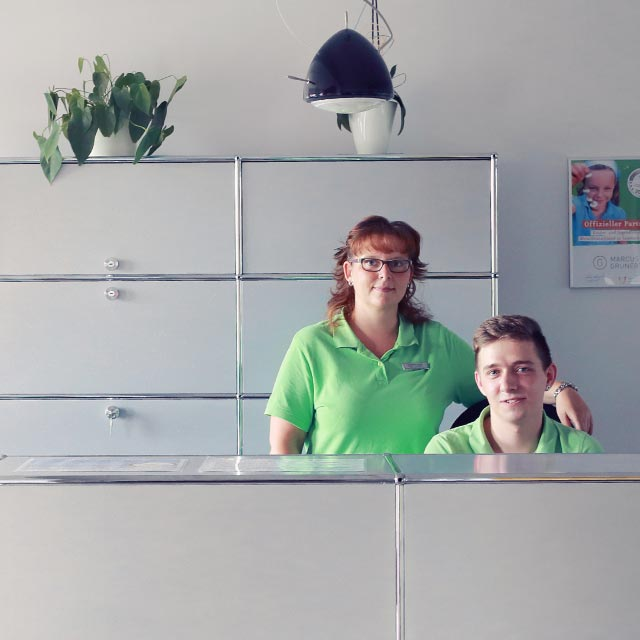
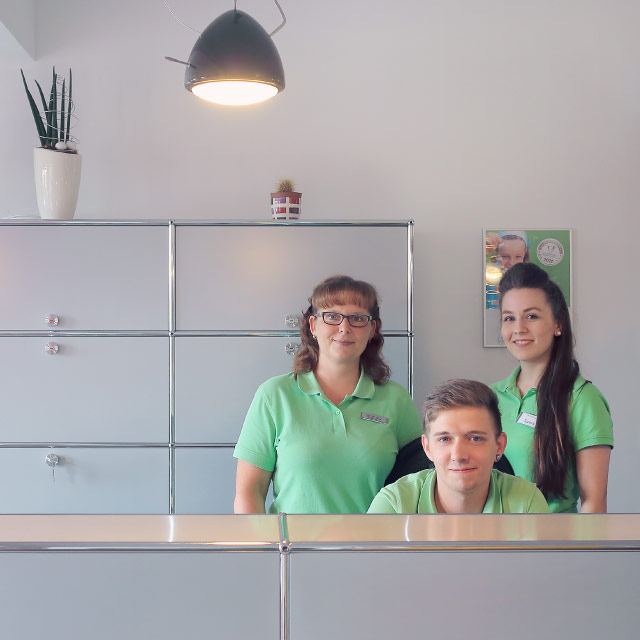
Updated images

diff --git a/index.html b/index.html
@@ -314,38 +314,38 @@
         <section id="employees">
              <div class="container">
                  <div class="row">
-                    <div class="col-sm-4 text-center">
+                     <div class="col-sm-4 text-center">
+                         <picture>
+                             <source media="(max-width: 320px)" srcset="assets/images/annett_weidisch_320.jpg, assets/images/annett_weidisch_320@2x.jpg 2x">
+                             <source media="(max-width: 640px)" srcset="assets/images/annett_weidisch_640.jpg, assets/images/annett_weidisch_640@2x.jpg 2x">
+                             <source media="(max-width: 800px)" srcset="assets/images/annett_weidisch_800.jpg, assets/images/annett_weidisch_800@2x.jpg 2x">
+                             <source srcset="assets/images/annett_weidisch.jpg, assets/images/annett_weidisch@2x.jpg 2x">
+                             <img src="assets/images/annett_weidisch.jpg" class="img-responsive img-center" alt="Annett Weidisch">
+                         </picture>
+                         <h4><span class="arrow"></span> <strong>Annett Weidisch</strong></h4>
+                         <p>Onkologische Fachschwester,<br>Diabetesberaterin DDG</p>
+                     </div>
+                     <div class="col-sm-4 text-center">
+                         <picture>
+                             <source media="(max-width: 320px)" srcset="assets/images/tommy_keyssner_320.jpg, assets/images/tommy_keyssner_320@2x.jpg 2x">
+                             <source media="(max-width: 640px)" srcset="assets/images/tommy_keyssner_640.jpg, assets/images/tommy_keyssner_640@2x.jpg 2x">
+                             <source media="(max-width: 800px)" srcset="assets/images/tommy_keyssner_800.jpg, assets/images/tommy_keyssner_800@2x.jpg 2x">
+                             <source srcset="assets/images/tommy_keyssner.jpg, assets/images/tommy_keyssner@2x.jpg 2x">
+                             <img src="assets/images/tommy_keyssner.jpg" class="img-responsive img-center" alt="Tommy Keyssner">
+                         </picture>
+                         <h4><span class="arrow"></span> <strong>Tommy Keyssner</strong></h4>
+                         <p>Med. Fachangestellter</p>
+                     </div>
+                     <div class="col-sm-4 text-center">
                         <picture>
-                            <source media="(max-width: 320px)" srcset="assets/images/marlis_sommerfeld_320.jpg, assets/images/marlis_sommerfeld_320@2x.jpg 2x">
-                            <source media="(max-width: 640px)" srcset="assets/images/marlis_sommerfeld_640.jpg, assets/images/marlis_sommerfeld_640@2x.jpg 2x">
-                            <source media="(max-width: 800px)" srcset="assets/images/marlis_sommerfeld_800.jpg, assets/images/marlis_sommerfeld_800@2x.jpg 2x">
-                            <source srcset="assets/images/marlis_sommerfeld.jpg, assets/images/marlis_sommerfeld@2x.jpg 2x">
-                            <img src="assets/images/marlis_sommerfeld.jpg" class="img-responsive img-center" alt="Marlis Sommerfeld">
+                            <source media="(max-width: 320px)" srcset="assets/images/laura_doepping_320.jpg, assets/images/laura_doepping_320@2x.jpg 2x">
+                            <source media="(max-width: 640px)" srcset="assets/images/laura_doepping_640.jpg, assets/images/laura_doepping_640@2x.jpg 2x">
+                            <source media="(max-width: 800px)" srcset="assets/images/laura_doepping_800.jpg, assets/images/laura_doepping_800@2x.jpg 2x">
+                            <source srcset="assets/images/laura_doepping.jpg, assets/images/laura_doepping@2x.jpg 2x">
+                            <img src="assets/images/laura_doepping.jpg" class="img-responsive img-center" alt="Marlis Sommerfeld">
                         </picture>
-                        <h4><span class="arrow"></span> <strong>Marlis Sommerfeld</strong></h4>
-                        <p>Arzthelferin</p>
-                    </div>
-                    <div class="col-sm-4 text-center">
-                        <picture>
-                            <source media="(max-width: 320px)" srcset="assets/images/annett_weidisch_320.jpg, assets/images/annett_weidisch_320@2x.jpg 2x">
-                            <source media="(max-width: 640px)" srcset="assets/images/annett_weidisch_640.jpg, assets/images/annett_weidisch_640@2x.jpg 2x">
-                            <source media="(max-width: 800px)" srcset="assets/images/annett_weidisch_800.jpg, assets/images/annett_weidisch_800@2x.jpg 2x">
-                            <source srcset="assets/images/annett_weidisch.jpg, assets/images/annett_weidisch@2x.jpg 2x">
-                            <img src="assets/images/annett_weidisch.jpg" class="img-responsive img-center" alt="Annett Weidisch">
-                        </picture>
-                        <h4><span class="arrow"></span> <strong>Annett Weidisch</strong></h4>
-                        <p>Arzthelferin, <br> Onkologische Fachschwester, <br> Diabetesberaterin DDG</p>
-                    </div>
-                    <div class="col-sm-4 text-center">
-                        <picture>
-                            <source media="(max-width: 320px)" srcset="assets/images/tommy_keyssner_320.jpg, assets/images/tommy_keyssner_320@2x.jpg 2x">
-                            <source media="(max-width: 640px)" srcset="assets/images/tommy_keyssner_640.jpg, assets/images/tommy_keyssner_640@2x.jpg 2x">
-                            <source media="(max-width: 800px)" srcset="assets/images/tommy_keyssner_800.jpg, assets/images/tommy_keyssner_800@2x.jpg 2x">
-                            <source srcset="assets/images/tommy_keyssner.jpg, assets/images/tommy_keyssner@2x.jpg 2x">
-                            <img src="assets/images/tommy_keyssner.jpg" class="img-responsive img-center" alt="Tommy Keyssner">
-                        </picture>
-                        <h4><span class="arrow"></span> <strong>Tommy Keyssner</strong></h4>
-                        <p>Med. Fachangestellter</p>
+                        <h4><span class="arrow"></span> <strong>Laura Döpping</strong></h4>
+                        <p>Med. Fachangestellte</p>
                     </div>
                 </div>
              </div>
